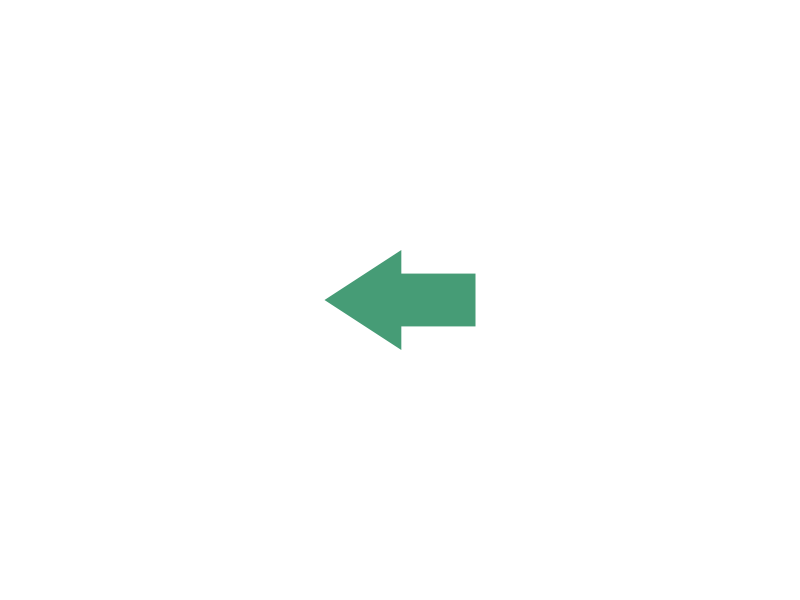
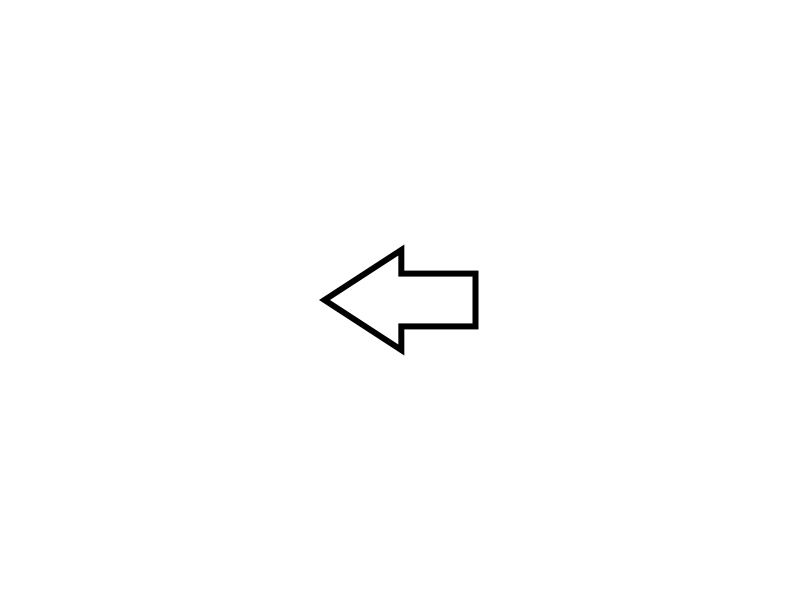
replace XX with red arrows (as stop signals) and update text files accordingly

Changed region(s): [[0.4062, 0.42, 0.625, 0.6]]

diff --git a/jsPsych_version/configuration/text_variables.js b/jsPsych_version/configuration/text_variables.js
@@ -1,18 +1,18 @@
 // instructions page 1
 var page1 = [
-  '<p>Your main task is to respond to green arrows that appear on the screen.</p> '+
+  '<p>Your main task is to respond to white arrows (with a black border) that appear on the screen.</p> '+
   '<p>Press the LEFT ARROW KEY with the right index finger when you see a LEFT ARROW and press the RIGHT ARROW KEY with the right ring finger when you see a RIGHT ARROW. </p>'+
   '<p>Thus, left arrow = left key and right arrow = right key. </p>'+ '<br>' +
-  '<p>However, on some trials (stop-signal trials) the arrows will be replaced by "XX" after a variable delay. These XXs (stop signals) indicate that you have to stop your response. </p>'+
-  '<p>On approximately half of the stop-signal trials, the stop signal will appear soon and you will notice that it will be easy to stop your response. </p>'+
-  '<p>On the other half of the trials, the stop signals will appear late and it will become very difficult or even impossible to stop your response.</p>'
+  '<p>However, on some trials (stop-signal trials) the arrows will turn red after a variable delay. You have to stop your response when this happens. </p>'+
+  '<p>On approximately half of the stop-signal trials, the red stop signal will appear soon and you will notice that it will be easy to stop your response. </p>'+
+  '<p>On the other half of the trials, the red stop signals will appear late and it will become very difficult or even impossible to stop your response.</p>'
 ];
 
 // instructions page 2
 // Do not forget to adjust the number of blocks
 page2 = [
-  '<p> Nevertheless, it is really important that you do not wait for the stop signal to occur and that you respond as quickly and as accurately as possible to the arrows. </p>'+
-  '<p> After all, if you start waiting for stop signals, then the program will delay their presentation. This will result in long reaction times. </p>'+
+  '<p> Nevertheless, it is really important that you do not wait for the stop signal to occur and that you respond as quickly and as accurately as possible to the white arrows. </p>'+
+  '<p> After all, if you start waiting for the red stop signals, then the program will delay their presentation. This will result in long reaction times. </p>'+
   '<p> We will start with a short practice block in which you will receive immediate feedback. You will no longer receive immediate feedback in the experimental phase. </p>'+
   '<p> However, at the end of each experimental block, there will be a 15 second break. During this break, we will show you some information about your mean performance in the previous block.</p>' +
   '<p> The experiment consists of 1 practice block and 4 experimental blocks</p>'

diff --git a/jsPsych_version/README-STOP-IT-JS.md b/jsPsych_version/README-STOP-IT-JS.md
@@ -21,10 +21,10 @@ The main advantages of this version of STOP-IT are (a) the version is platform-i
 
 ## The default stop-signal task
 
-The primary go task is a simple two-choice task in which participants have to discriminate between an arrow pointing to the left and an arrow pointing to the right. On go trials (75% of the trials), participants have to respond as fast and accurate as possible to these arrows. On stop-signal trials (25% of the trials), the arrows are replaced by 'XX' (i.e. a visual stop signal) after a variable delay, instructing participants to cancel their response.
+The primary go task is a simple two-choice task in which participants have to discriminate between a white arrow pointing to the left and a white arrow pointing to the right. On go trials (75% of the trials), participants have to respond as fast and accurate as possible to these arrows. On stop-signal trials (25% of the trials), the arrows turn red (i.e. a visual stop signal) after a variable delay, instructing participants to cancel their response.
 
 ### Stimuli and responses
-The default go stimuli are two green arrows (RGB: 0,158,118). The fixation sign (a black dot; RGB: 0,0,0) and arrows are presented in the center of the screen on a white background. Stimulus size will correspond to the size of the go stimuli in the './images' folder. Occasionally, a visual stop signal ('XX' in black; RGB: 0,0,0) is presented shortly after the stimulus onset in the go task, replacing the go stimulus. Again, the size of the default stop signal will depend on the size of the stop signal in the images folder. Researchers can change all stimuli by uploading new images in the './images' folder. Be aware that the file names should correspond to the names described in the 'experiment_variables.js' file (see below).
+The default go stimuli are two white arrows (RGB: 255, 255, 255), whith a black border (RGB = 0, 0, 0). The fixation sign (a black dot; RGB: 0,0,0) and arrows are presented in the center of the screen on a white background. Stimulus size will correspond to the size of the go stimuli in the './images' folder. Occasionally, a visual stop signal (the arrow turning red; RGB: 255,38,0) is presented shortly after the stimulus onset in the go task, replacing the (white) go stimulus. Again, the size of the default stop signal will depend on the size of the stop signal in the images folder. Researchers can change all stimuli by uploading new images in the './images' folder. Be aware that the file names should correspond to the names described in the 'experiment_variables.js' file (see below).
 
 By default, the response keys are ‘leftarrow’ (for the stimulus associated with the left response) and ‘rightarrow’ (for the stimulus associated with the right response). The experiment is aborted when the ESC key is pressed and the browser window is closed.
 
@@ -99,7 +99,7 @@ var NAME = VALUE. Researchers can change the VALUE but they should not change 'v
 
 The images themselves can be adjusted by replacing the .png files in the image folder. The names of the images and the values defined in this 'experiment_variables.js' file (see below) should correspond.
 
-There are separate image files for the stop signal that will replace the left go stimulus, and the stop signal that will replace the right go stimulus. In the default version, the content of the image files is the same (i.e. two crosses, 'XX'), but researchers can also use different images if wanted (e.g. 'stop_left.png' could be a red left-pointing arrow, and 'stop_right.png' could be a red right-pointing arrow).
+There are separate image files for the stop signal that will replace the left go stimulus, and the stop signal that will replace the right go stimulus.
 
 ##### Design variables
 In the first step, researchers can adjust the proportion of stop signals:
